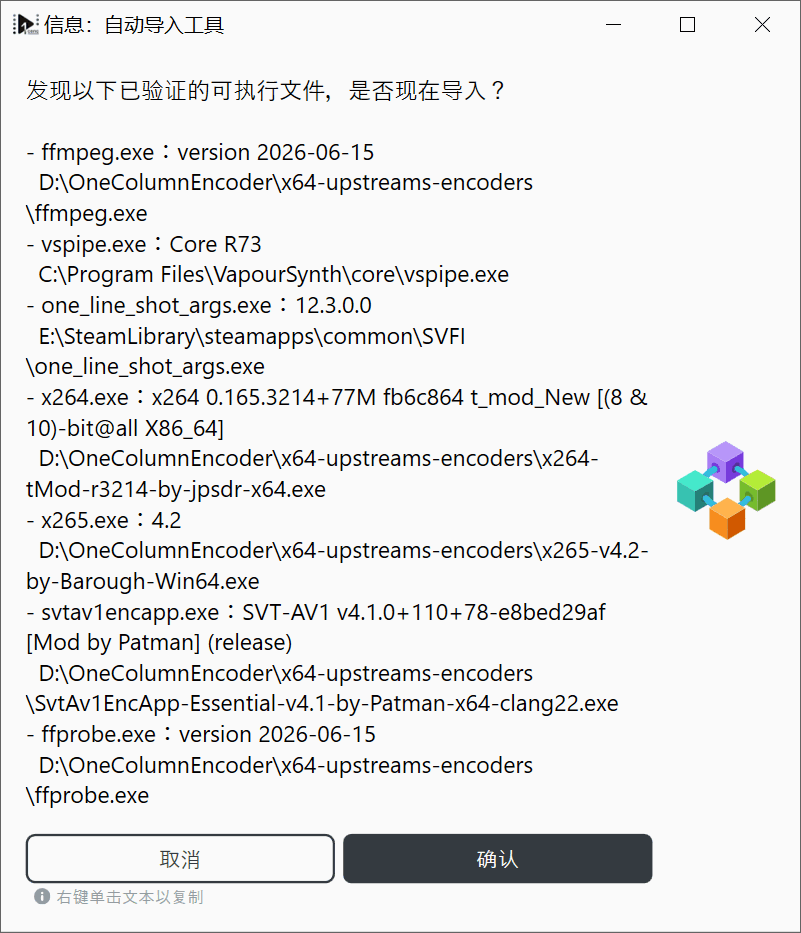
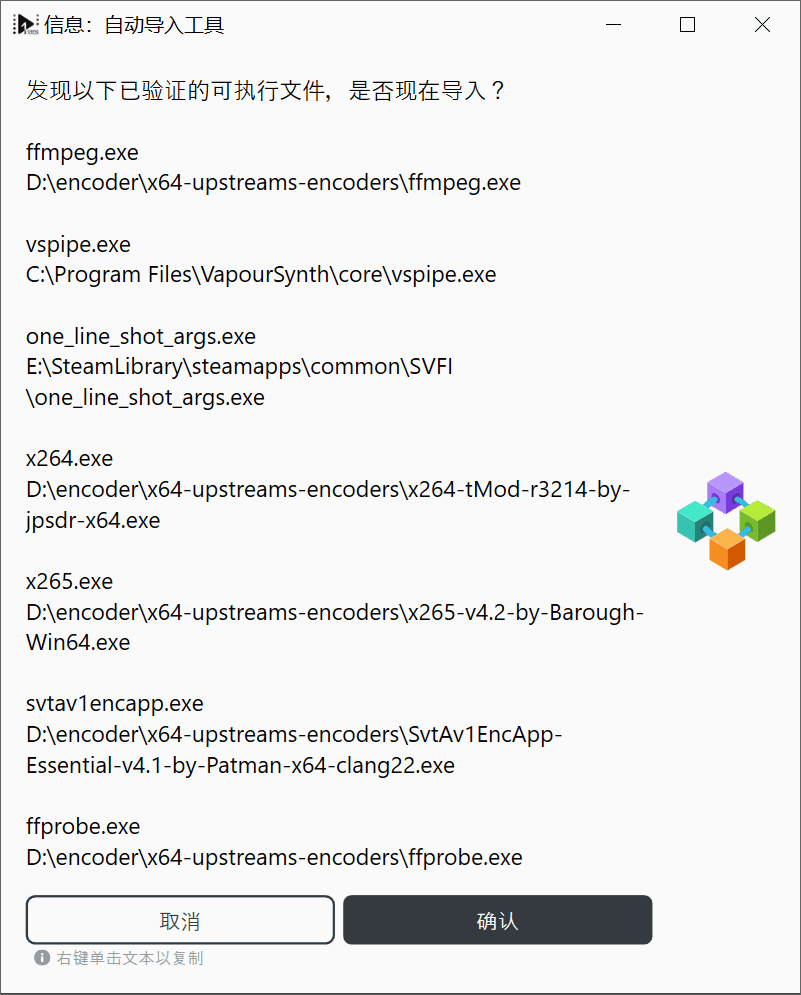
Swapped to new look for auto tool import ConfirmationModal

diff --git a/README.md b/README.md
@@ -1,5 +1,8 @@
 # OneColumnEncoder Tutorial
 
+The tutorials for operating OneColumnEncoder. | 1cenc 压制工具教程。
+The screenshot images in tutorial may have differ from latest build, which is normal. | 教程中的截图画面或与最新版软件有所不同，这是正常现象。
+
 ## Basics | 基础
 
 Walkthrough of 1cenc, so people don't have to figure it out. | 1cenc 的基础流程教程，使能快速上手。
